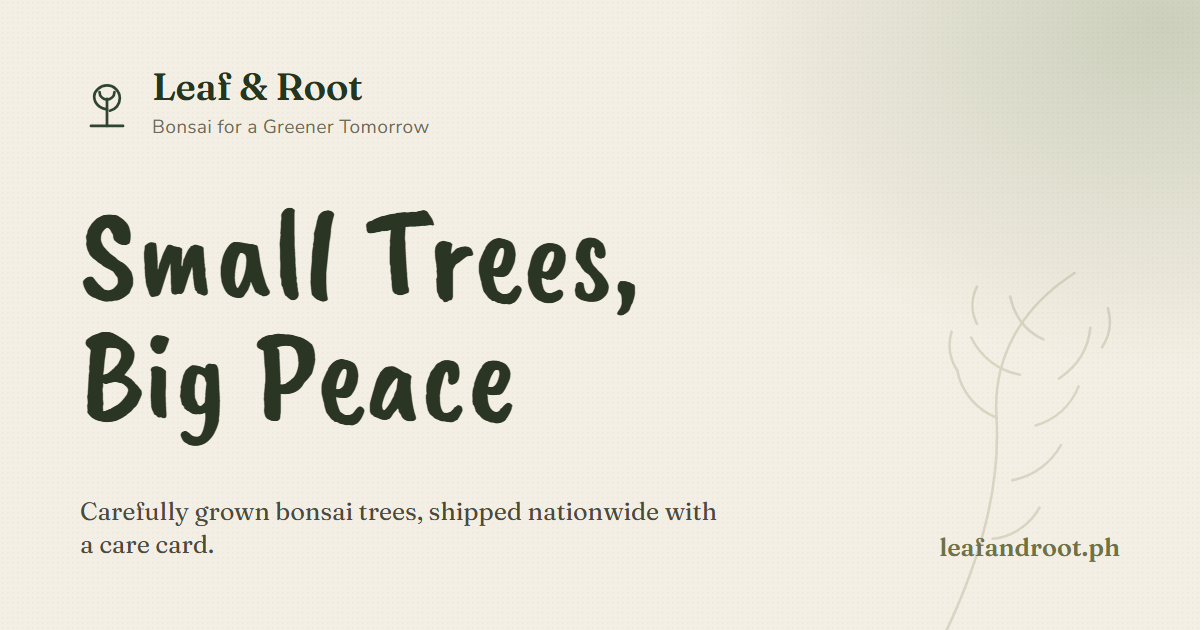
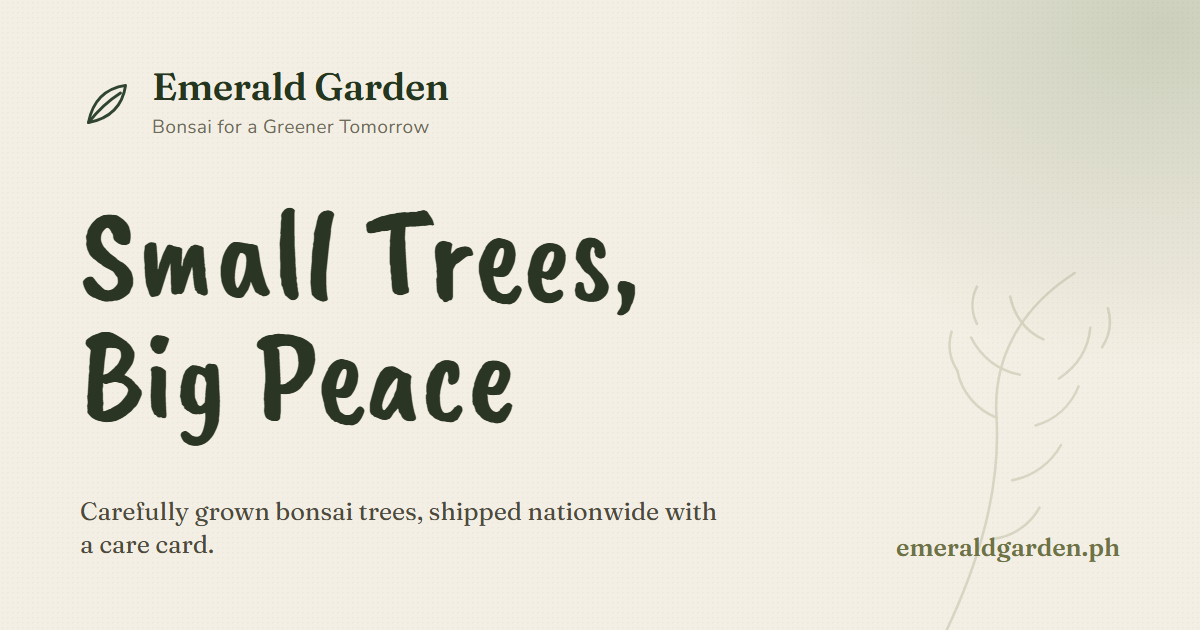
Rename the brand to Emerald Garden
The storefront, metadata, structured data, emails and package name all become Emerald Garden. The environment variables follow: LEAF_AND_ROOT_* is now EMERALD_GARDEN_*.

The mark is simplified at the same time - the bonsai in a pot becomes a single leaf, which survives being drawn at 32px. The OG card is regenerated to match.

Changed region(s): [[0.0617, 0.1206, 0.37, 0.2111], [0.74, 0.8444, 0.8942, 0.9048]]

diff --git a/src/lib/mailer.ts b/src/lib/mailer.ts
@@ -1,7 +1,7 @@
 /**
  * Outbound mail for the two public forms.
  *
- * Set `RESEND_API_KEY` and `LEAF_AND_ROOT_INBOX` and submissions are delivered
+ * Set `RESEND_API_KEY` and `EMERALD_GARDEN_INBOX` and submissions are delivered
  * by email. With no transport configured the submission is still validated,
  * accepted and written to the server log, and `delivered: false` is reported
  * back — nothing is silently swallowed, and the UI never claims a delivery
@@ -24,14 +24,14 @@ const RESEND_ENDPOINT = "https://api.resend.com/emails";
 const TIMEOUT_MS = 8000;
 
 export function mailTransportConfigured(): boolean {
-  return Boolean(process.env.RESEND_API_KEY && process.env.LEAF_AND_ROOT_INBOX);
+  return Boolean(process.env.RESEND_API_KEY && process.env.EMERALD_GARDEN_INBOX);
 }
 
 export async function deliver(message: MailMessage): Promise<DeliveryResult> {
   if (!mailTransportConfigured()) {
     console.info(
-      "[leaf-and-root] mail transport not configured; logging instead\n" +
-        `  to: ${message.to ?? process.env.LEAF_AND_ROOT_INBOX ?? "n/a"}\n` +
+      "[emerald-garden] mail transport not configured; logging instead\n" +
+        `  to: ${message.to ?? process.env.EMERALD_GARDEN_INBOX ?? "n/a"}\n` +
         `  subject: ${message.subject}\n` +
         `  reply-to: ${message.replyTo ?? "n/a"}\n` +
         message.text
@@ -54,8 +54,8 @@ export async function deliver(message: MailMessage): Promise<DeliveryResult> {
         "Content-Type": "application/json",
       },
       body: JSON.stringify({
-        from: process.env.LEAF_AND_ROOT_FROM ?? "Leaf & Root <onboarding@resend.dev>",
-        to: [message.to ?? (process.env.LEAF_AND_ROOT_INBOX as string)],
+        from: process.env.EMERALD_GARDEN_FROM ?? "Emerald Garden <onboarding@resend.dev>",
+        to: [message.to ?? (process.env.EMERALD_GARDEN_INBOX as string)],
         subject: message.subject,
         text: message.text,
         ...(message.replyTo ? { reply_to: message.replyTo } : {}),
@@ -65,14 +65,14 @@ export async function deliver(message: MailMessage): Promise<DeliveryResult> {
     if (!response.ok) {
       const detail = await response.text().catch(() => "");
       console.error(
-        `[leaf-and-root] mail provider responded ${response.status} ${detail.slice(0, 300)}`,
+        `[emerald-garden] mail provider responded ${response.status} ${detail.slice(0, 300)}`,
       );
       return { delivered: false, reason: `provider-${response.status}` };
     }
     return { delivered: true };
   } catch (error) {
     const aborted = error instanceof Error && error.name === "AbortError";
-    console.error("[leaf-and-root] mail delivery failed:", error);
+    console.error("[emerald-garden] mail delivery failed:", error);
     return { delivered: false, reason: aborted ? "timeout" : "network" };
   } finally {
     clearTimeout(timer);

diff --git a/src/app/contact/page.tsx b/src/app/contact/page.tsx
@@ -10,7 +10,7 @@ import PageHead from "@/components/PageHead";
 export const metadata: Metadata = pageMetadata({
   title: "Contact & Visit",
   description:
-    "Write to Leaf & Root, ask a grower a question, or visit the workshop at 14 Saging Street, Quezon City. We answer every message ourselves.",
+    "Write to Emerald Garden, ask a grower a question, or visit the workshop at 14 Saging Street, Quezon City. We answer every message ourselves.",
   path: "/contact",
 });
 
@@ -77,10 +77,10 @@ export default function ContactPage() {
                   <div>
                     <h4>Write to us</h4>
                     <p>
-                      <a href="mailto:hello@leafandroot.ph">hello@leafandroot.ph</a>
+                      <a href="mailto:hello@emeraldgarden.ph">hello@emeraldgarden.ph</a>
                       <br />
-                      <a href="mailto:care@leafandroot.ph">care@leafandroot.ph</a> — for
-                      sick trees
+                      <a href="mailto:care@emeraldgarden.ph">care@emeraldgarden.ph</a> —
+                      for sick trees
                     </p>
                   </div>
                 </div>
@@ -192,7 +192,7 @@ export default function ContactPage() {
                     fontSize="20"
                     fill="var(--brown)"
                   >
-                    Leaf &amp; Root
+                    Emerald Garden
                   </text>
                   <text
                     x="20"

diff --git a/src/lib/commerce/json-store.ts b/src/lib/commerce/json-store.ts
@@ -18,7 +18,7 @@ import { join } from "node:path";
  *
  *   memory  — used automatically when the filesystem is not writable (a
  *             serverless deployment, a read-only container) or deliberately
- *             when LEAF_AND_ROOT_STORAGE=memory. Documents live in module
+ *             when EMERALD_GARDEN_STORAGE=memory. Documents live in module
  *             scope, so they survive for the life of a warm instance and are
  *             lost on restart.
  *
@@ -46,7 +46,7 @@ const memory = (shared.__leafAndRootMemory ??= new Map<string, unknown>());
  * front; otherwise the first failed write decides.
  */
 function fileStoreAvailable(): boolean {
-  if (process.env.LEAF_AND_ROOT_STORAGE === "memory") return false;
+  if (process.env.EMERALD_GARDEN_STORAGE === "memory") return false;
   return shared.__leafAndRootFileUnavailable !== true;
 }
 
@@ -59,7 +59,7 @@ function degradeToMemory(error: unknown): void {
   if (shared.__leafAndRootFallbackAnnounced) return;
   shared.__leafAndRootFallbackAnnounced = true;
   console.warn(
-    "[leaf-and-root] filesystem is not writable — using in-memory storage. " +
+    "[emerald-garden] filesystem is not writable — using in-memory storage. " +
       "Orders and inventory will not survive a restart. " +
       `Cause: ${error instanceof Error ? error.message : String(error)}`,
   );

diff --git a/src/lib/seo.ts b/src/lib/seo.ts
@@ -14,12 +14,12 @@ const configuredUrl =
   process.env.SITE_URL ?? process.env.NEXT_PUBLIC_SITE_URL ?? fallbackUrl;
 
 export const SITE = {
-  name: "Leaf & Root",
+  name: "Emerald Garden",
   tagline: "Bonsai for a Greener Tomorrow",
-  legalName: "Leaf & Root Bonsai",
+  legalName: "Emerald Garden Bonsai",
   url: configuredUrl.replace(/\/$/, ""),
   locale: "en_PH",
-  email: "hello@leafandroot.ph",
+  email: "hello@emeraldgarden.ph",
   phone: "+63-2-8123-4567",
   foundingYear: 2018,
   address: {
@@ -30,9 +30,9 @@ export const SITE = {
     country: "PH",
   },
   sameAs: [
-    "https://instagram.com/leafandroot",
-    "https://facebook.com/leafandroot",
-    "https://pinterest.com/leafandroot",
+    "https://instagram.com/emeraldgarden",
+    "https://facebook.com/emeraldgarden",
+    "https://pinterest.com/emeraldgarden",
   ],
 } as const;
 
@@ -40,7 +40,7 @@ export const OG_IMAGE = {
   url: "/og.png",
   width: 1200,
   height: 630,
-  alt: "Leaf & Root � Small Trees, Big Peace",
+  alt: "Emerald Garden — Small Trees, Big Peace",
 } as const;
 export function absolute(path: string): string {
   return new URL(path, `${SITE.url}/`).toString();

diff --git a/src/app/layout.tsx b/src/app/layout.tsx
@@ -67,15 +67,15 @@ const caveatBrush = localFont({
   display: "swap",
 });
 
-const HOME_TITLE = "Leaf & Root — Bonsai for a Greener Tomorrow";
+const HOME_TITLE = "Emerald Garden — Bonsai for a Greener Tomorrow";
 const HOME_DESCRIPTION =
-  "Leaf & Root is a small bonsai shop bringing nature closer to home with carefully grown bonsai trees for beginners, hobbyists and collectors.";
+  "Emerald Garden is a small bonsai shop bringing nature closer to home with carefully grown bonsai trees for beginners, hobbyists and collectors.";
 
 export const metadata: Metadata = {
   metadataBase: new URL(SITE.url),
   title: {
     default: HOME_TITLE,
-    template: "%s — Leaf & Root Bonsai",
+    template: "%s — Emerald Garden Bonsai",
   },
   description: HOME_DESCRIPTION,
   applicationName: SITE.name,
@@ -105,7 +105,7 @@ export const metadata: Metadata = {
         url: "/og.png",
         width: 1200,
         height: 630,
-        alt: "Leaf & Root — Small Trees, Big Peace",
+        alt: "Emerald Garden — Small Trees, Big Peace",
       },
     ],
   },

diff --git a/src/app/about/page.tsx b/src/app/about/page.tsx
@@ -9,7 +9,7 @@ import PageHead from "@/components/PageHead";
 export const metadata: Metadata = pageMetadata({
   title: "Our Story",
   description:
-    "Leaf & Root began with a single bench, a watering can and a belief that nature brings peace, balance and beauty into everyday life.",
+    "Emerald Garden began with a single bench, a watering can and a belief that nature brings peace, balance and beauty into everyday life.",
   path: "/about",
 });
 
@@ -172,7 +172,7 @@ export default function AboutPage() {
               <span className="eyebrow">Our Story</span>
               <h2>More Than Plants, It's a Lifestyle.</h2>
               <p>
-                Leaf &amp; Root was born from a simple belief — that nature brings peace,
+                Emerald Garden was born from a simple belief — that nature brings peace,
                 balance, and beauty into our everyday lives. We grow and care for bonsai
                 trees for hobbyists, collectors, and anyone who wants to bring a little
                 more green into their space.

diff --git a/src/components/icons.tsx b/src/components/icons.tsx
@@ -12,23 +12,16 @@ export function BrandMark({ size = 32, ...props }: IconProps & { size?: number }
       aria-hidden="true"
       {...props}
     >
-      <path d="M16 29V13" stroke="currentColor" strokeWidth="1.6" strokeLinecap="round" />
       <path
-        d="M16 19c-4.2 0-7.6-3.4-7.6-7.6C8.4 8.4 11.8 5 16 5s7.6 3.4 7.6 7.6c0 3.6-2.5 6.6-5.9 7.4"
+        d="M27 5C15.5 6.7 7.6 13.8 5 27c13.2-2.6 20.3-10.5 22-22z"
         stroke="currentColor"
-        strokeWidth="1.5"
-        strokeLinecap="round"
+        strokeWidth="1.7"
+        strokeLinejoin="round"
       />
       <path
-        d="M16 13.4c-2.4 0-4.4-2-4.4-4.4M16 13.4c2.4 0 4.4-2 4.4-4.4"
+        d="M5 27C11 19.5 16.5 14.2 24 9.5"
         stroke="currentColor"
         strokeWidth="1.3"
-        strokeLinecap="round"
-      />
-      <path
-        d="M6.5 29h19"
-        stroke="currentColor"
-        strokeWidth="1.6"
         strokeLinecap="round"
       />
     </svg>

diff --git a/src/components/home/StoriesSection.tsx b/src/components/home/StoriesSection.tsx
@@ -5,7 +5,7 @@ import { IconHeart, LeafGlyph } from "@/components/icons";
 const STORIES = [
   {
     quote:
-      "The quality is amazing! My Ficus arrived in perfect condition and it's already thriving. Highly recommend Leaf & Root!",
+      "The quality is amazing! My Ficus arrived in perfect condition and it's already thriving. Highly recommend Emerald Garden!",
     name: "Mariana Santos",
     location: "Quezon City",
     avatar: "/img/avatar-mariana.jpg",
@@ -19,7 +19,7 @@ const STORIES = [
   },
   {
     quote:
-      "Such a beautiful experience! The bonsai I received is even more stunning in person. Thank you, Leaf & Root!",
+      "Such a beautiful experience! The bonsai I received is even more stunning in person. Thank you, Emerald Garden!",
     name: "Angela Dela Torre",
     location: "Manila",
     avatar: "/img/avatar-angela.jpg",

diff --git a/src/components/Footer.tsx b/src/components/Footer.tsx
@@ -22,7 +22,7 @@ export default function Footer() {
               <BrandMark />
             </span>
             <span className="brand__text">
-              <span className="brand__name">Leaf &amp; Root</span>
+              <span className="brand__name">Emerald Garden</span>
               <span className="brand__tag">Bonsai for a Greener Tomorrow</span>
             </span>
           </Link>
@@ -39,7 +39,7 @@ export default function Footer() {
         </div>
 
         <div className="footer__bottom">
-          <p>&copy; {year} Leaf &amp; Root. All rights reserved.</p>
+          <p>&copy; {year} Emerald Garden. All rights reserved.</p>
           <p className="footer__hand">
             Small trees. Big stories.
             <LeafGlyph width={20} height={20} />

diff --git a/src/components/Header.tsx b/src/components/Header.tsx
@@ -39,12 +39,12 @@ export default function Header() {
   return (
     <header className={`site-header${stuck ? " is-stuck" : ""}`}>
       <div className="wrap header-inner">
-        <Link className="brand" href="/" aria-label="Leaf and Root — home">
+        <Link className="brand" href="/" aria-label="Emerald Garden — home">
           <span className="brand__mark">
             <BrandMark />
           </span>
           <span className="brand__text">
-            <span className="brand__name">Leaf &amp; Root</span>
+            <span className="brand__name">Emerald Garden</span>
             <span className="brand__tag">Bonsai for a Greener Tomorrow</span>
           </span>
         </Link>

diff --git a/src/components/home/StorySection.tsx b/src/components/home/StorySection.tsx
@@ -140,7 +140,7 @@ export default function StorySection() {
               It&apos;s a Lifestyle
             </h2>
             <p>
-              Leaf &amp; Root was born from a simple belief — that nature brings peace,
+              Emerald Garden was born from a simple belief — that nature brings peace,
               balance, and beauty into our everyday lives. We grow and care for bonsai
               trees for hobbyists, collectors, and anyone who wants to bring a little more
               green into their space.

diff --git a/src/app/shop/page.tsx b/src/app/shop/page.tsx
@@ -9,7 +9,7 @@ import ShopClient from "@/components/shop/ShopClient";
 export const metadata: Metadata = pageMetadata({
   title: "Shop the Collection",
   description:
-    "Browse the Leaf & Root collection of carefully grown bonsai trees for indoor and outdoor spaces, from beginner-friendly ficus to collector pines.",
+    "Browse the Emerald Garden collection of carefully grown bonsai trees for indoor and outdoor spaces, from beginner-friendly ficus to collector pines.",
   path: "/shop",
 });
 
